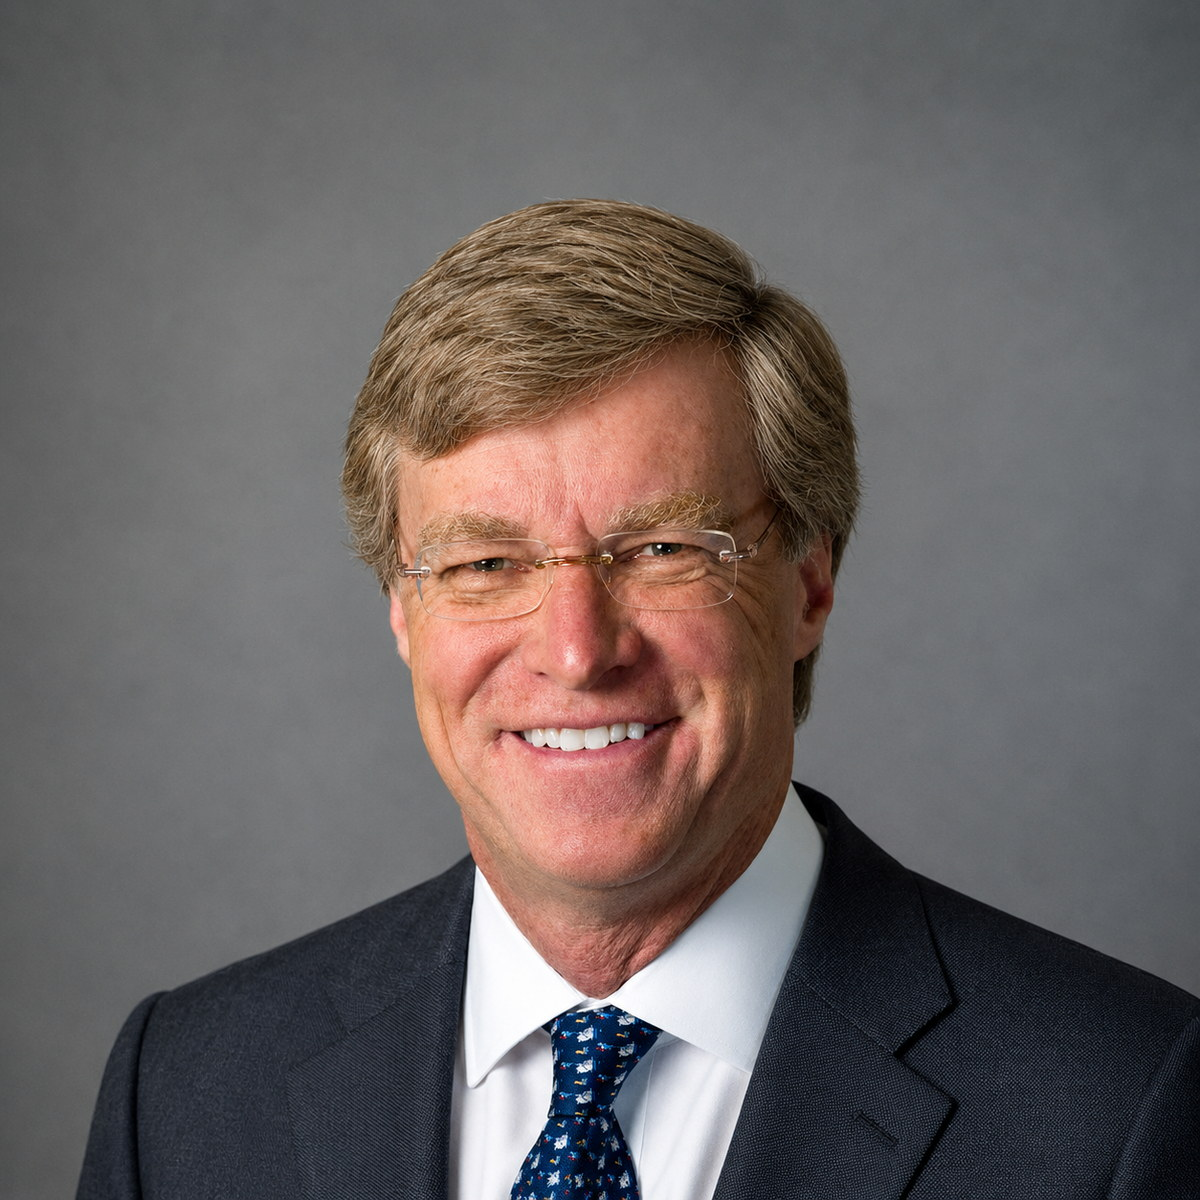
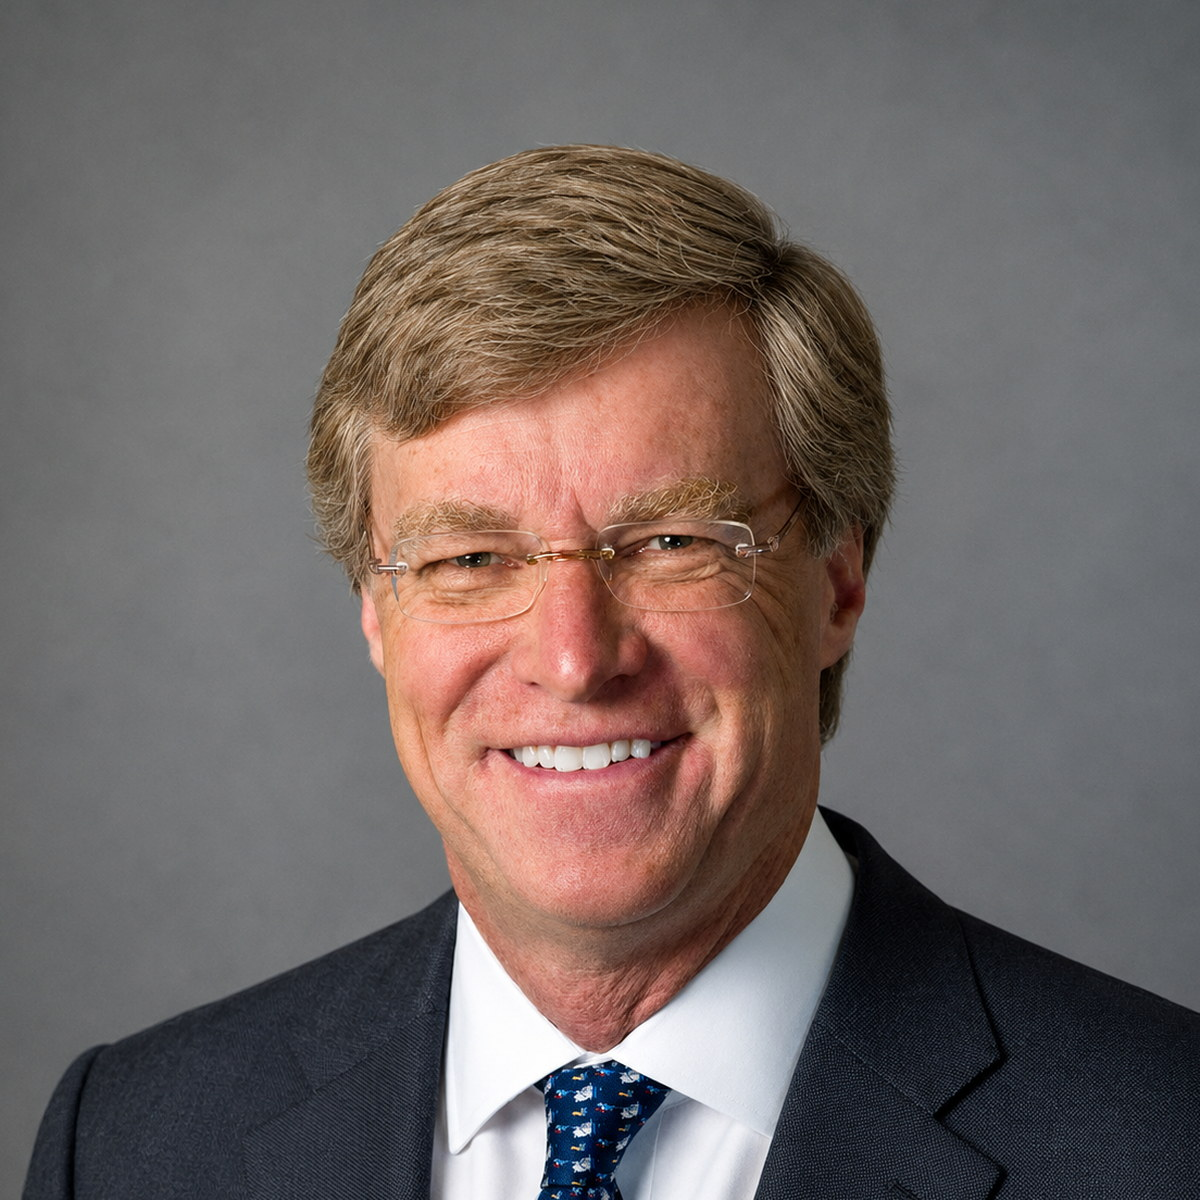
Zoom the Peter Dolan portrait, keeping headroom above the head
Crops 6% from the top and sides of the source so the face fills more of the
frame, while leaving clear space above the hair. The zoom now lives in the
asset, so the CSS object-position override added for him is removed; Sikora's
override is unchanged.

Changed region(s): [[0.0, 0.1233, 1.0, 1.0]]

diff --git a/app/globals.css b/app/globals.css
@@ -395,8 +395,7 @@ a:hover > .icon-arrow{transform:translate(1px,-1px);transition:transform .15s}
 /* This headshot is framed tighter than the others, so the shared "center 20%"
    cropped the top of the head. Pulling the focal point to the top of the frame
    shows the image lower in its box. Matched in the bio modal below. */
-.people-portraits .person-card img[src*="andrew-sikora"],
-.people-portraits .person-card img[src*="peter-dolan"] { object-position: center 0%; }
+.people-portraits .person-card img[src*="andrew-sikora"] { object-position: center 0%; }
 .people-portraits .person-copy { min-height: 132px; padding: 18px; gap: 6px; }
 .people-portraits .person-copy strong { font-size: 17px; line-height: 1.25; }
 .people-portraits .person-copy span { font-size: 13px; line-height: 1.4; }
@@ -404,8 +403,7 @@ a:hover > .icon-arrow{transform:translate(1px,-1px);transition:transform .15s}
 .person-placeholder { display: grid; place-items: center; background: #edf0f5; color: #aab0bc; font-size: 62px; }
 .person-placeholder.large { width: 260px; aspect-ratio: 4/5; border-radius: 8px; }
 .bio-modal img { border-radius: 8px; aspect-ratio: 4/5; object-fit: cover; object-position: center 20%; }
-.bio-modal img[src*="andrew-sikora"],
-.bio-modal img[src*="peter-dolan"] { object-position: center 0%; }
+.bio-modal img[src*="andrew-sikora"] { object-position: center 0%; }
 
 .mission-hero { padding: var(--hero-y) 0; background: linear-gradient(135deg, #f4f7ff, #eef3ff); }
 .mission-hero h1 { max-width: none; color: var(--navy); white-space: nowrap; font-size: clamp(54px,5.25vw,76px); }
